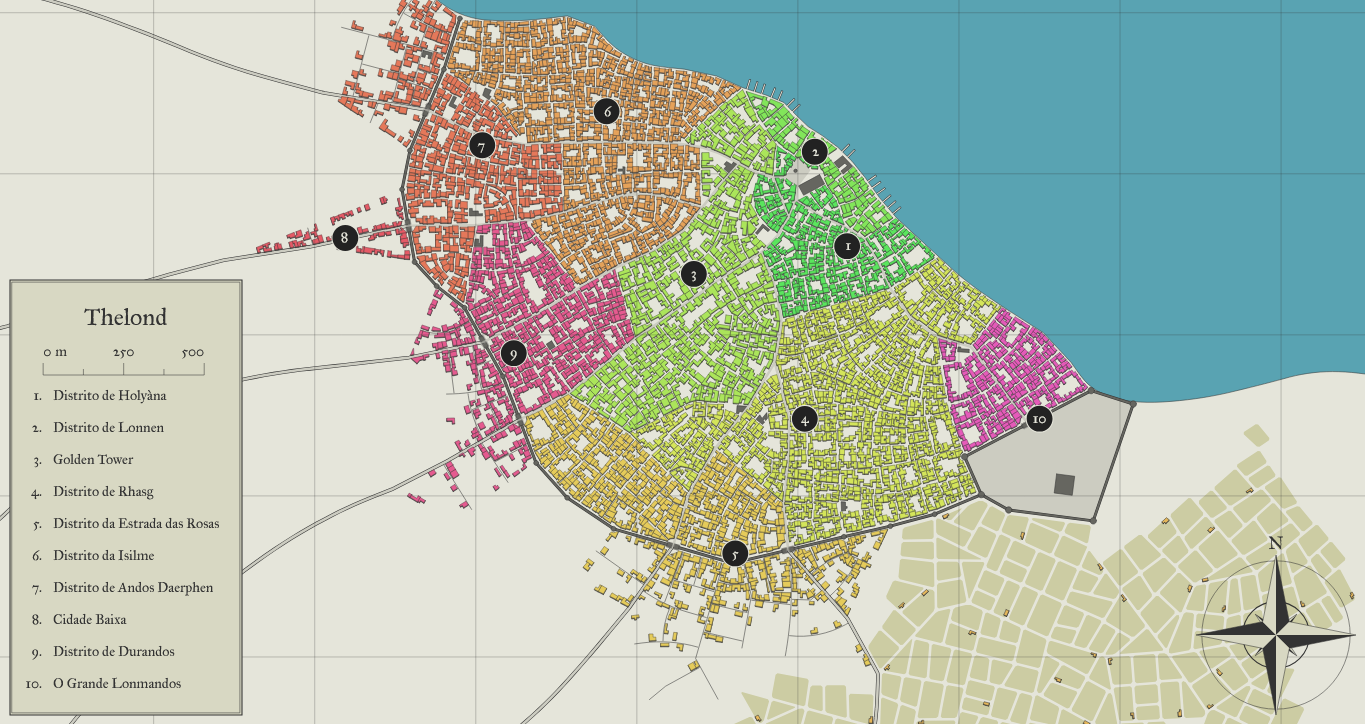
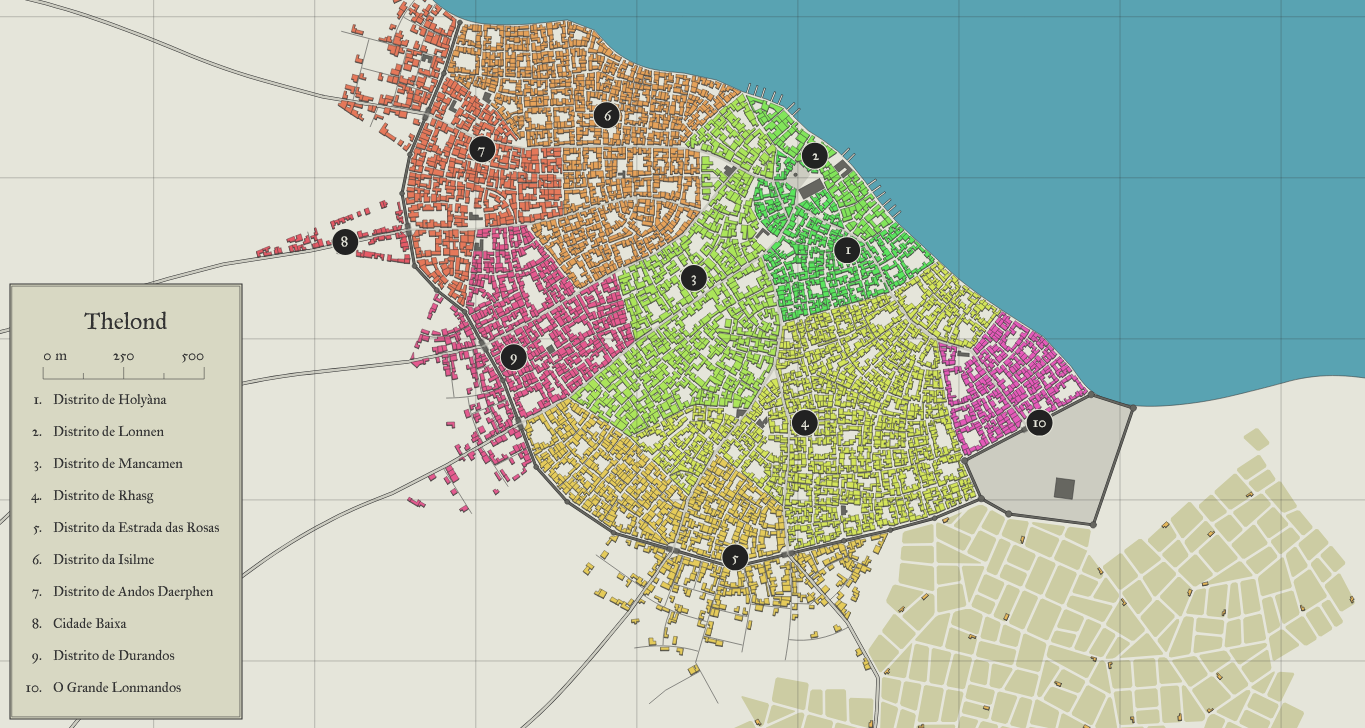
Quartz sync: Oct 12, 2025, 5:55 PM

diff --git a/content/Thelond.md b/content/Thelond.md
@@ -8,7 +8,38 @@
 
 ## Geografia da Cidade
 
-![[thelond.png]]
+![[content/thelond.png]]
 *Mapa da cidade de Thelond*
 
-Thelond é uma cidade praticamente plana, pela sua localização na costa do continente. Por essa localização, ela possui um grande porto, Lonnen, que 
+Thelond é uma cidade praticamente plana, pela sua localização na costa do continente. No noroeste (o Norte fica em direção oposta ao mar) pouco além da cidade, o relevo se diversifica um pouco, com grandes colinas cobertas por grandes plantações. A capital é dividida em 10 distritos administrativos.
+
+Possui grandes muros na sua fronteira Norte, construídos para proteger e fortificar a cidade contra quaisquer possíveis ataques. No Oeste, se encontra o Palácio Imperial, **Barad Daerphen** (literalmente "Castelo Daerphen", em élfico; assim nomeado em homenagem ao deus Daerphen), ou simplesmente **Lonmandon** ("O Grande Castelo", em élfico).
+
+### Os Dez Distritos
+
+A cidade de Thelond é dividida em 10 distritos administrativos, cada um com sua característica própria, que o define. Assim, eles serão apresentados a seguir.
+
+#### Distrito de Holyàna
+
+O distrito de Holyàna é assim nomeado pelo grande templo ao deus Daerphen que se encontra no interior de seus limites. **Holyàna** significa, literalmente, **"O Templo Sagrado"**, em élfico, e ele possui este nome por ser considerado o principal templo de todo o panteão élfico. De acordo com os mitos fundadores do Império, o próprio Daerphen teria fundado esse templo em sua homenagem, para que os seus seguidores nunca se encontrassem distante dele.
+
+Todo ano, em duas vezes distintas, uma no solstício de inverno, e outra no solstício de verão, viajantes do mundo todo viajam até o templo, para participar de dois grandes festivais em homenagem aos deuses Amarthedhel, deusa da lua, e Daerphen, deus do sol, respectivamente. No solstício de inverno, se comemora o Festival dos Sonhos, em homenagem à Amarthedhel. No solstício de verão, se comemora o Festival do Sol Brilhante, em homenagem a Daerphen.
+
+Periodicamente, no acontecimento de um eclipse, viajantes do mundo todo também se encontram no templo para comemorar o Festival da União Eterna, que é feito em homenagem ao casamento de Amarthedhel e Daerphen, já que, de acordo com a mitologia élfica, os eclipses representam a reunião entre os dois. Entretanto, esse festival é feito em três momentos diferentes, em três distritos diferentes. Inicialmente no distrito Holyàna, posteriormente de Isilme, e, por fim, de Andos Daerphen.
+
+#### Distrito de Lonnen
+
+O distrito de **Lonnen** é assim nomeado pelo porto de Thelond, conhecido também simplesmente como **O Grande Porto** (que é a tradução literal de "Lonnen", do élfico). O distrito é relativamente pequeno, em comparação com os demais, por se ocupar principalmente do porto e da indústria que se forma ao redor dele. 
+
+Já que o distrito de Lonnen é principalmente industrial, relativamente poucos cidadãos de Thelond realmente residem nele. A maioria deles são trabalhadores do porto ou da indústria que se desenvolve ao redor dele. Mesmo assim, nem todos os trabalhadores do porto moram na região: muitos deles originam da Cidade Baixa, distrito pobre na periferia de Thelond.
+
+O porto é administrado pela Guilda Imperial do Mar, braço administrativo do Ministério do Comércio do Império, sendo uma das únicas Guildas de Artesãos e Aventureiros que é diretamente administrada pelo Império. A Guilda Imperial nem sempre foi atrelada à Coroa, e este fato é relativamente recente: antes de se tornar parte do Ministério do Comércio, a Guilda era administrada por comerciantes de diferentes partes do mundo. Em determinado momento, a Companhia de Stag se tornou a principal representante da administração da Guilda. Entretanto, depois da Guerra das Cinco Nações, o Imperador Tassarion decreta que a Guilda devia ser administrada por oficiais do governo, pela ameaça de segurança que a Companhia representava, e que todas as guildas do Império deveriam ter pelo menos 50% de seus representantes atrelados diretamente ao Ministério do Comércio. O impacto na economia da Companhia de Stag foi enorme, e alguns de seus efeitos é sentido na nação até hoje.
+
+#### Distrito de Mancamen
+
+O distrito de Mancamen é o principal centro comercial de Thelond, e é assim nomeado por este fato (Mancamen significa "Mercado" em élfico). O mercado, chamado também de **Mire Mancamen** (literalmente **"O Mercado das Joias"**, em élfico) se praticamente se estende desde o porto, até às muralhas da cidade. Grande parte dos artesãos da capital residem nesse distrito, já que sua mão de obra e especialidades são muito requisitadas na região. Além disso, o grande fluxo de pessoas é um grande incentivo ao comércio.
+
+As mercadorias comercializadas no mercado são diversas, variando desde peixes, carnes, e produtos agrícolas, até metais preciosos, joias, e produtos mágicos. Muitos cidadãos ricos, mas não nobres, residem nesse distrito, e eles são comumente donos de negócios, líderes de guildas de artesãos e aventureiros. Se destacam também nessa região os magos e feiticeiros, que trabalham nestas guildas, mas que não são ricos o suficiente para morar no distrito de Lonmandos, onde se encontra a Universidade Nacional de Wlaralin.
+
+Além de comerciantes, muitas das mais famosas tavernas da cidade se encontram neste distrito, sendo muito utilizadas pelos viajantes que, por qualquer motivo, estão temporariamente na cidade.
+